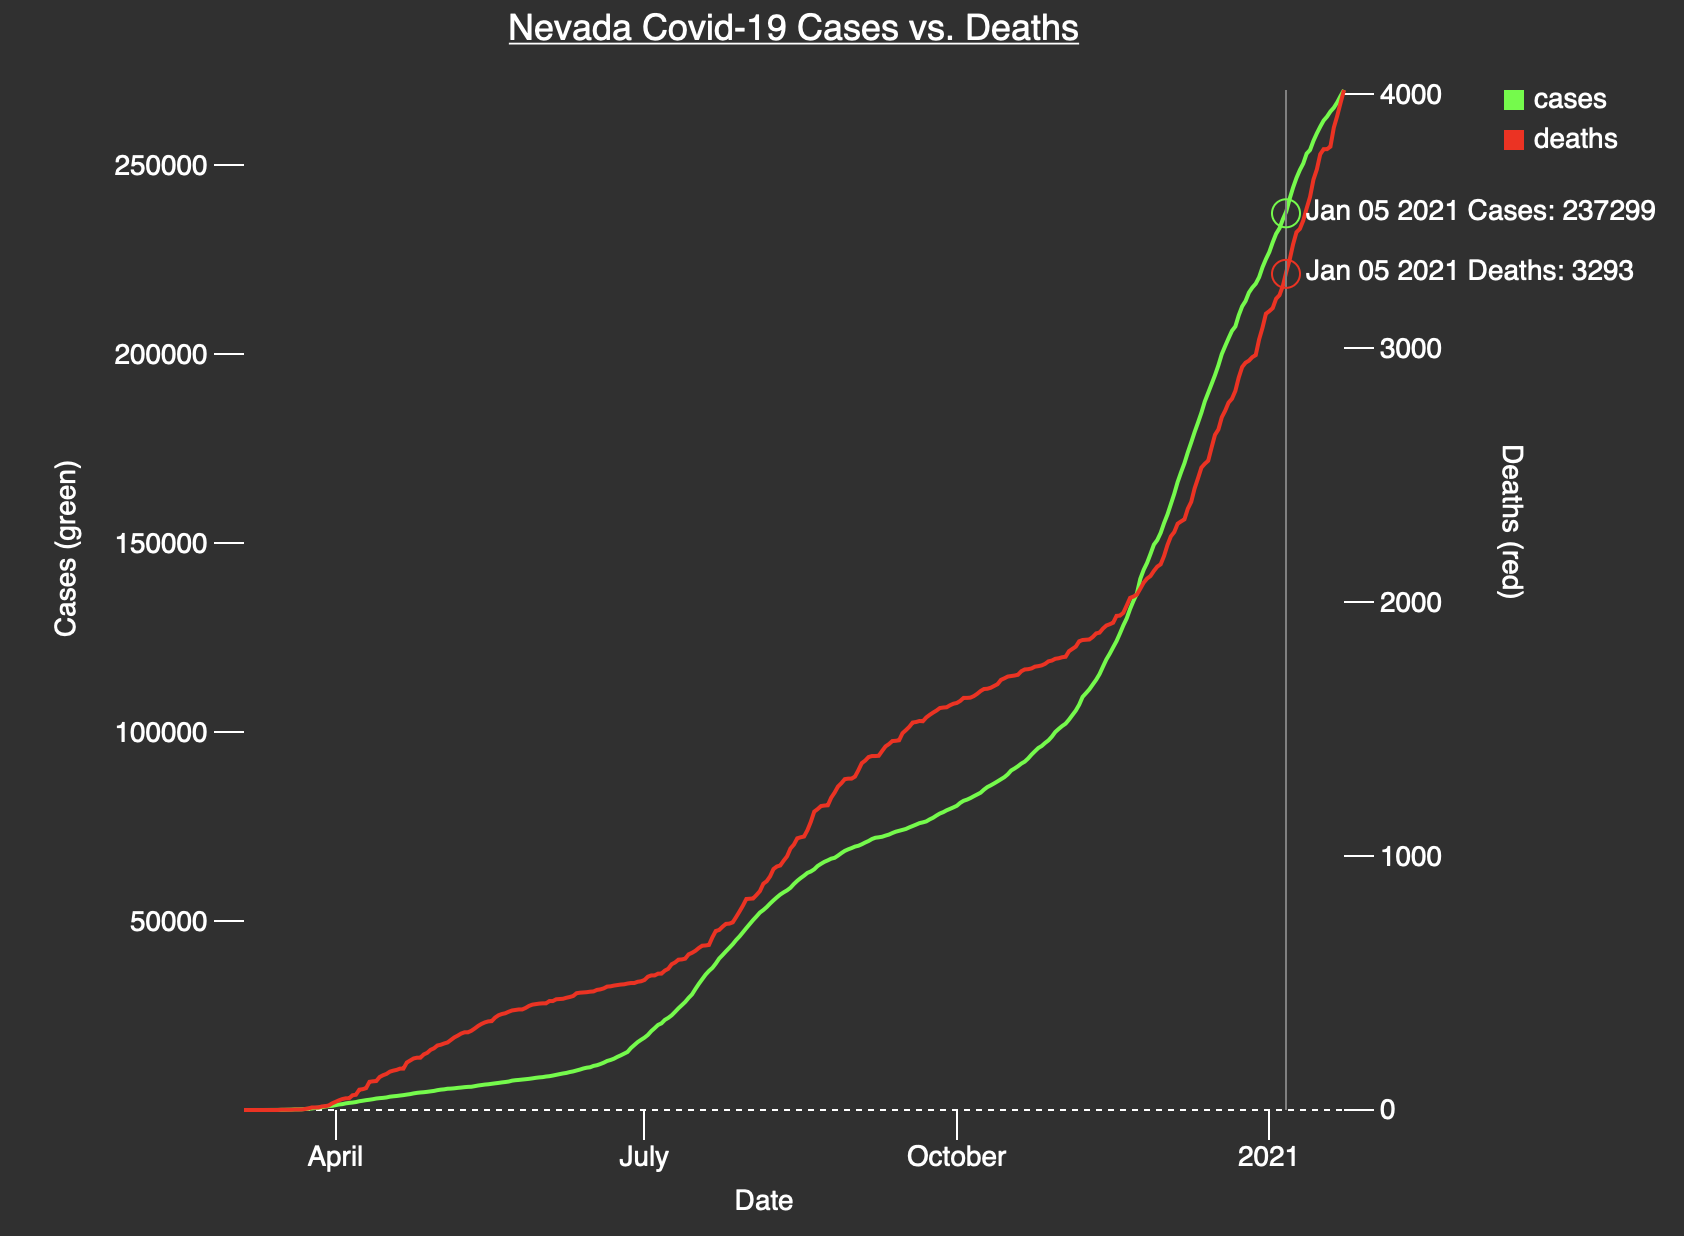
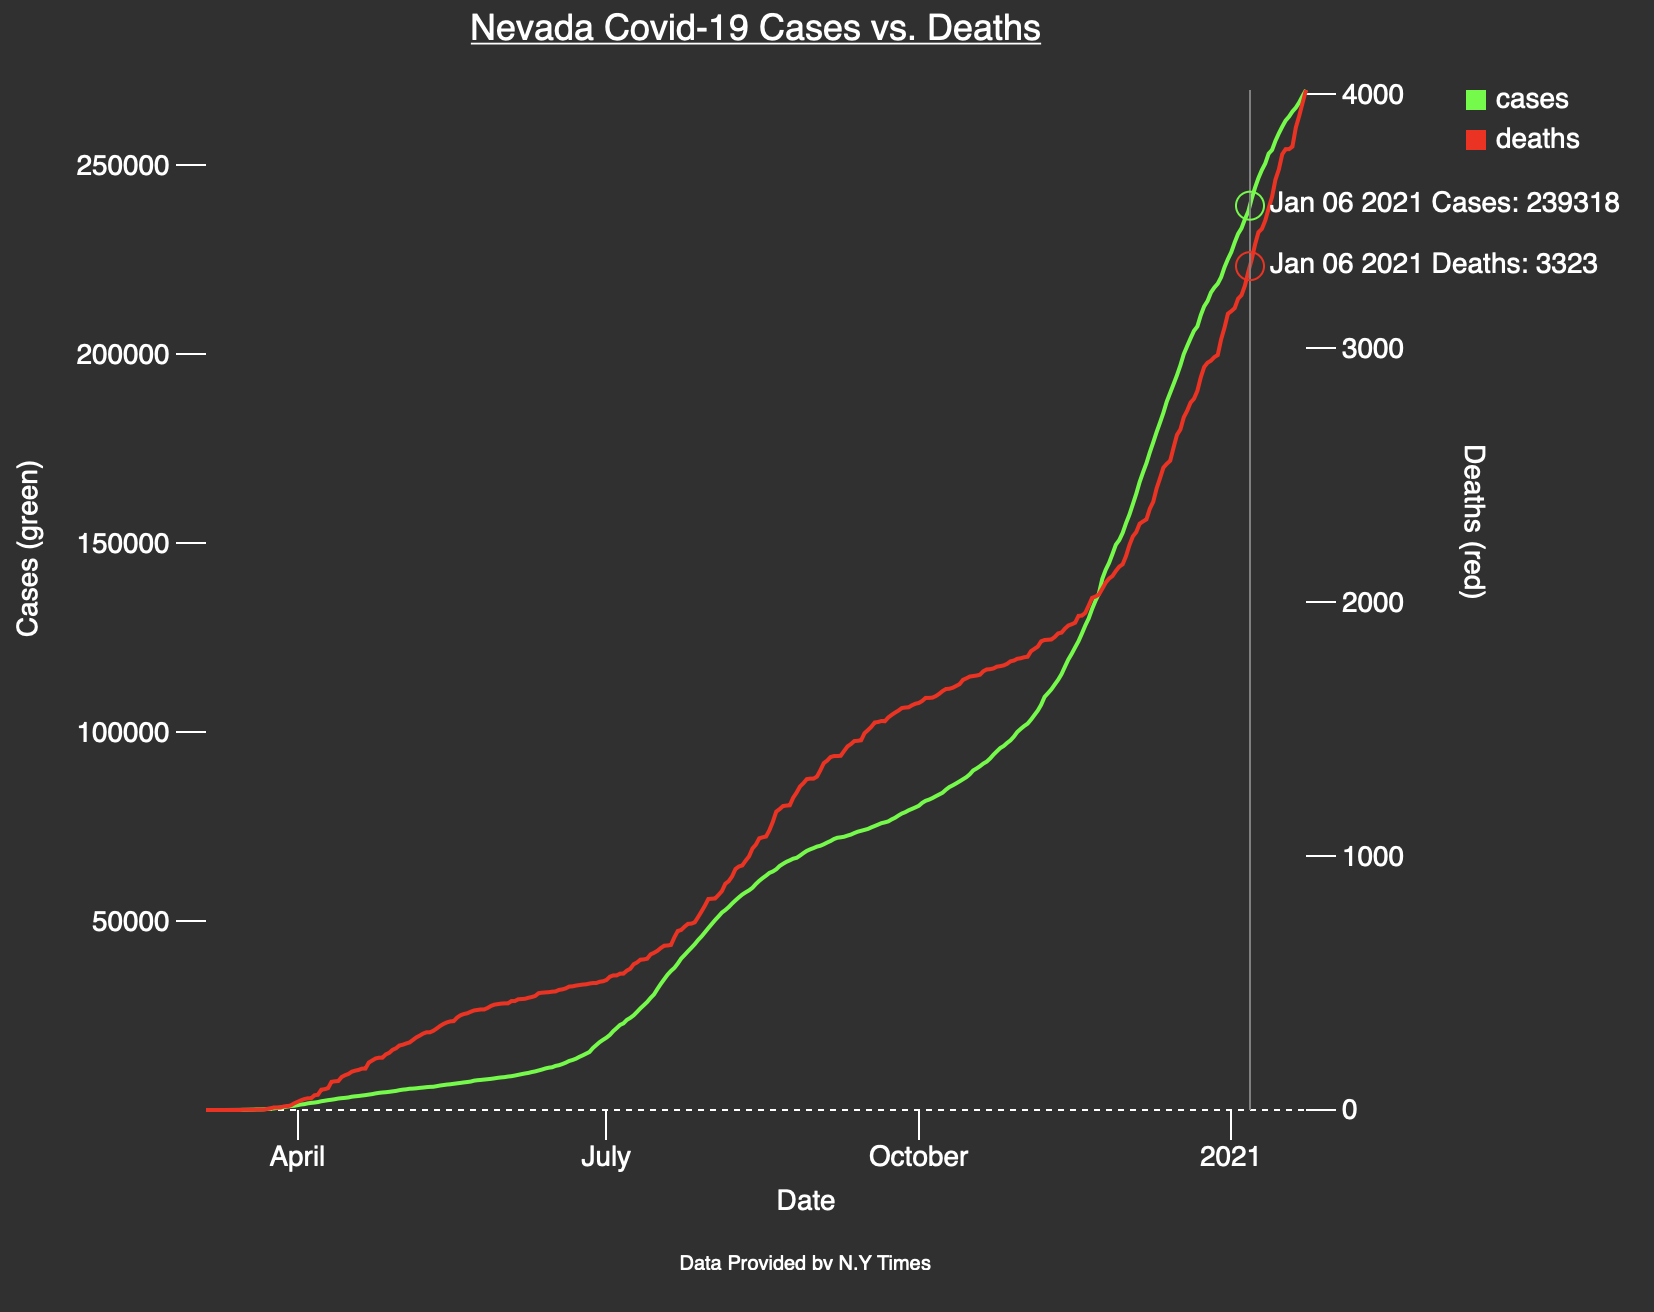
update

diff --git a/covid19_nevada_d3/nevada-covid-19.html b/covid19_nevada_d3/nevada-covid-19.html
@@ -125,6 +125,13 @@ svg.append("text")
     .style("text-decoration", "underline")
     .text("Nevada Covid-19 Cases vs. Deaths");
 
+svg.append("text")
+    .attr("x", (width / 2)+25)
+    .attr("y", height+80)
+    .attr("text-anchor", "middle")
+    .style("font-size", "10px")
+    .text("Data Provided by N.Y Times");
+
 d3.csv(datasource, function(error, data) {
 
     data.forEach(function(d) {
